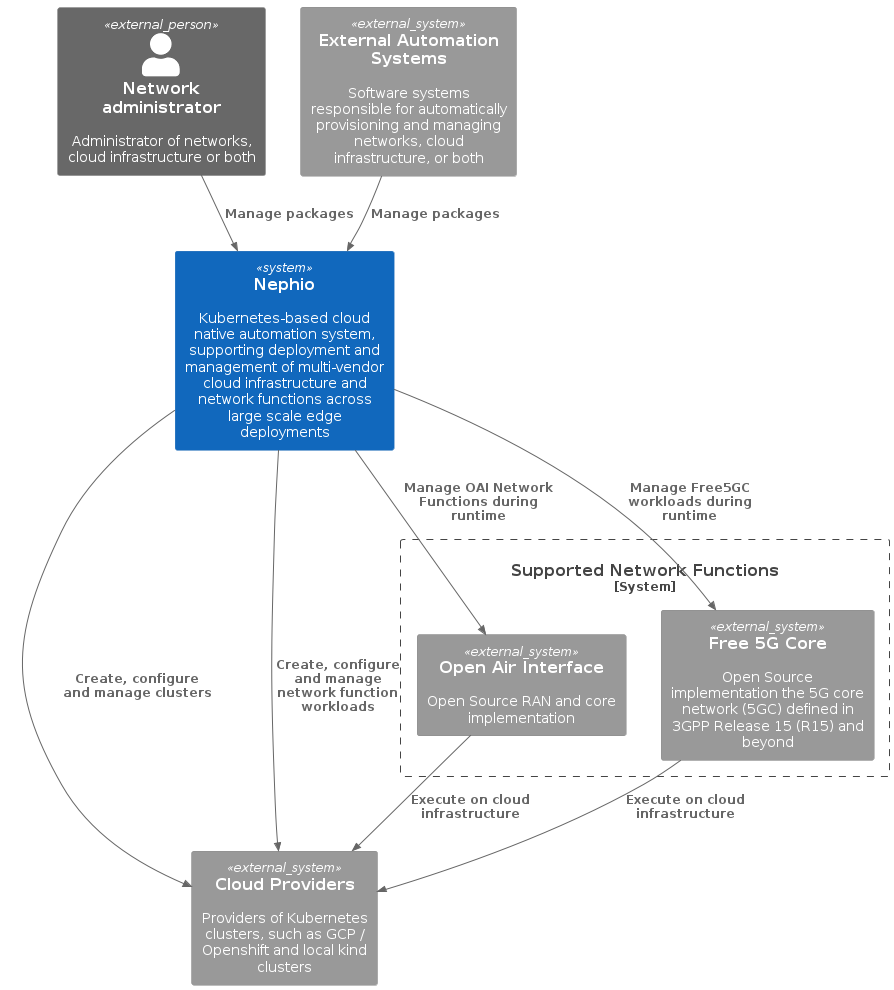
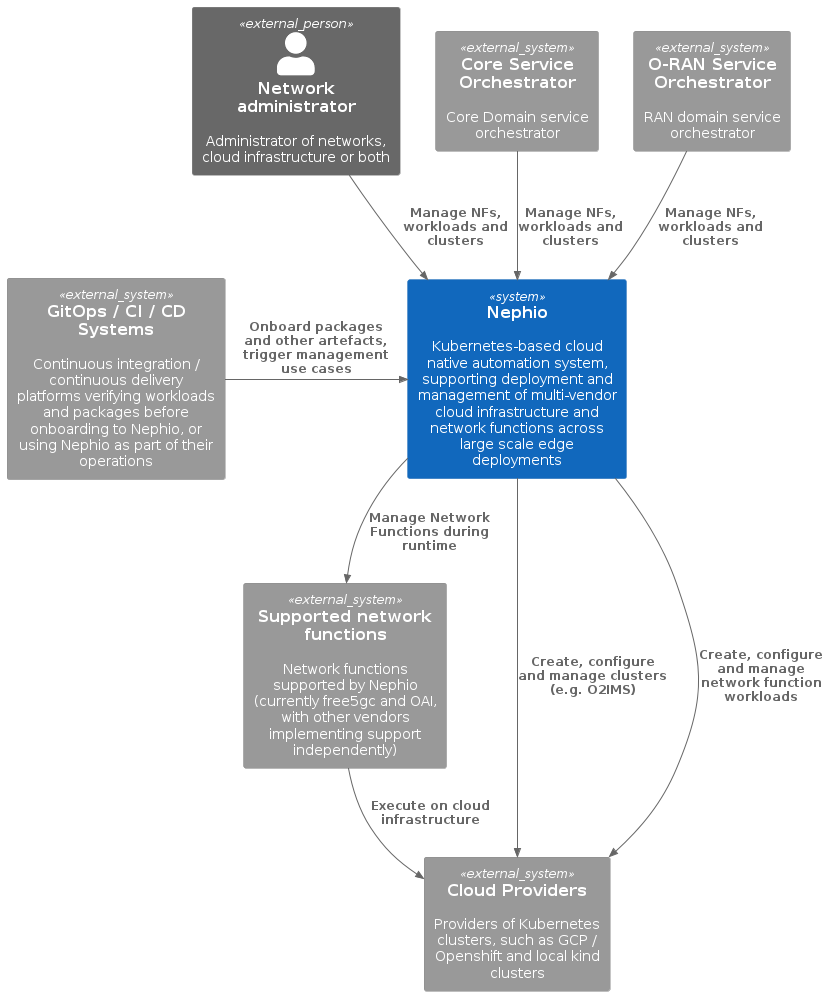
Updated after an initial review with Alexis

diff --git a/README.md b/README.md
@@ -18,3 +18,24 @@ Nephio is an amalgamation of software systems, so a system landscape provides a 
 ### Nephio Core
 
 ![Nephio Core Component View](diagrams/gen/nephio-core-component-view.png)
+
+Nephio core is a collection of operators and functions that perform the fundamental aspects of Nephio use cases, independent of the specifics of vendor implementations. 
+
+The controllers for OAI and Free5GC are represented here as while they are vendor extensions to Nephio they are for now part of the Nephio system.
+
+
+### Porch
+
+![Nephio Porch Component View](diagrams/gen/nephio-porch-component-view.png)
+
+### ConfigSync
+
+TBD - is this a component of Nephio or a dependency?
+
+## Deployment View
+
+TBD
+
+## Representative Use Cases
+
+TBD - use cases between the major components
